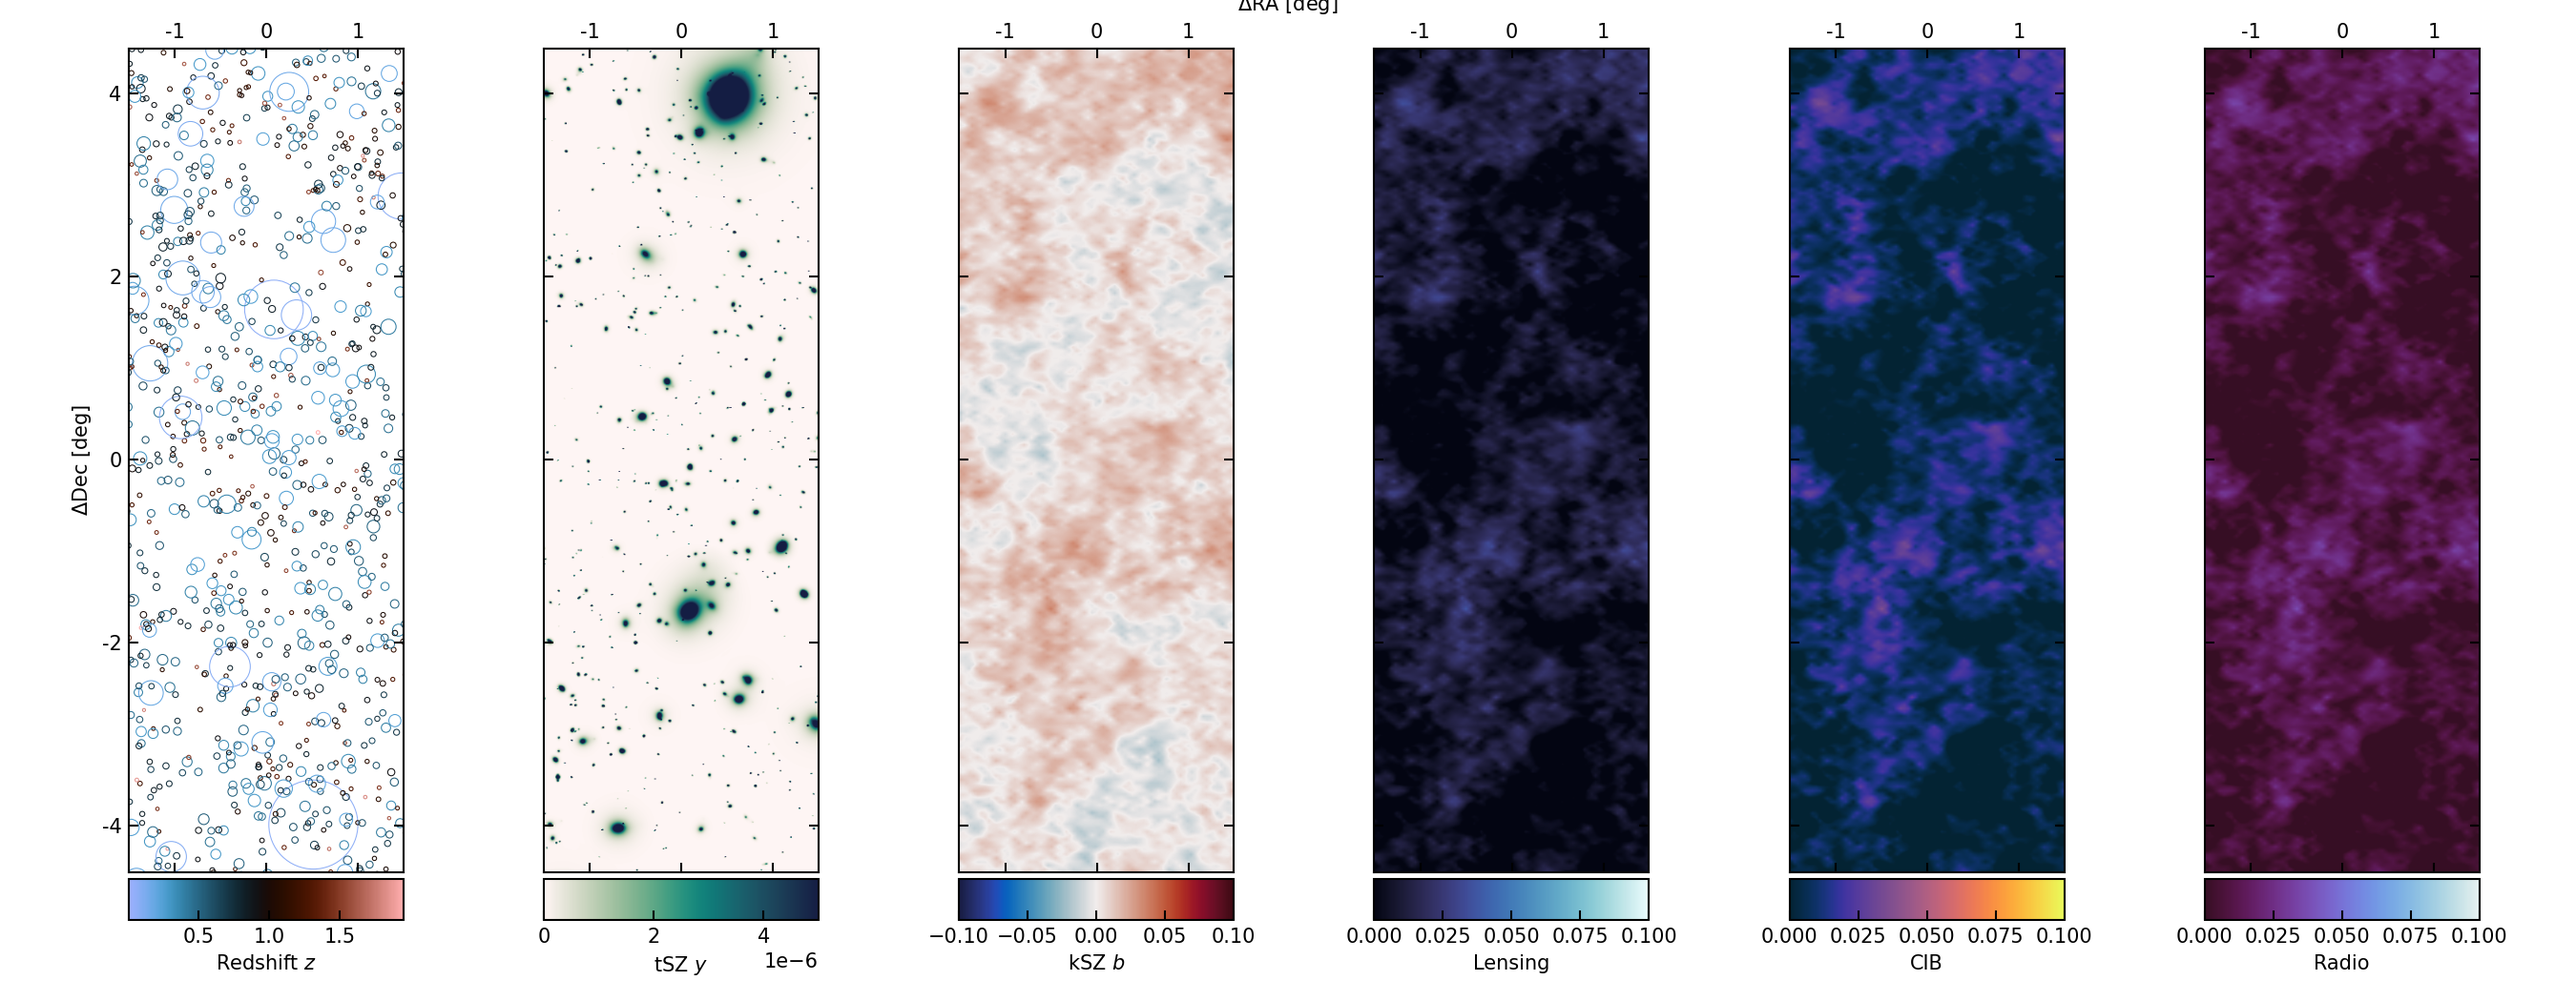
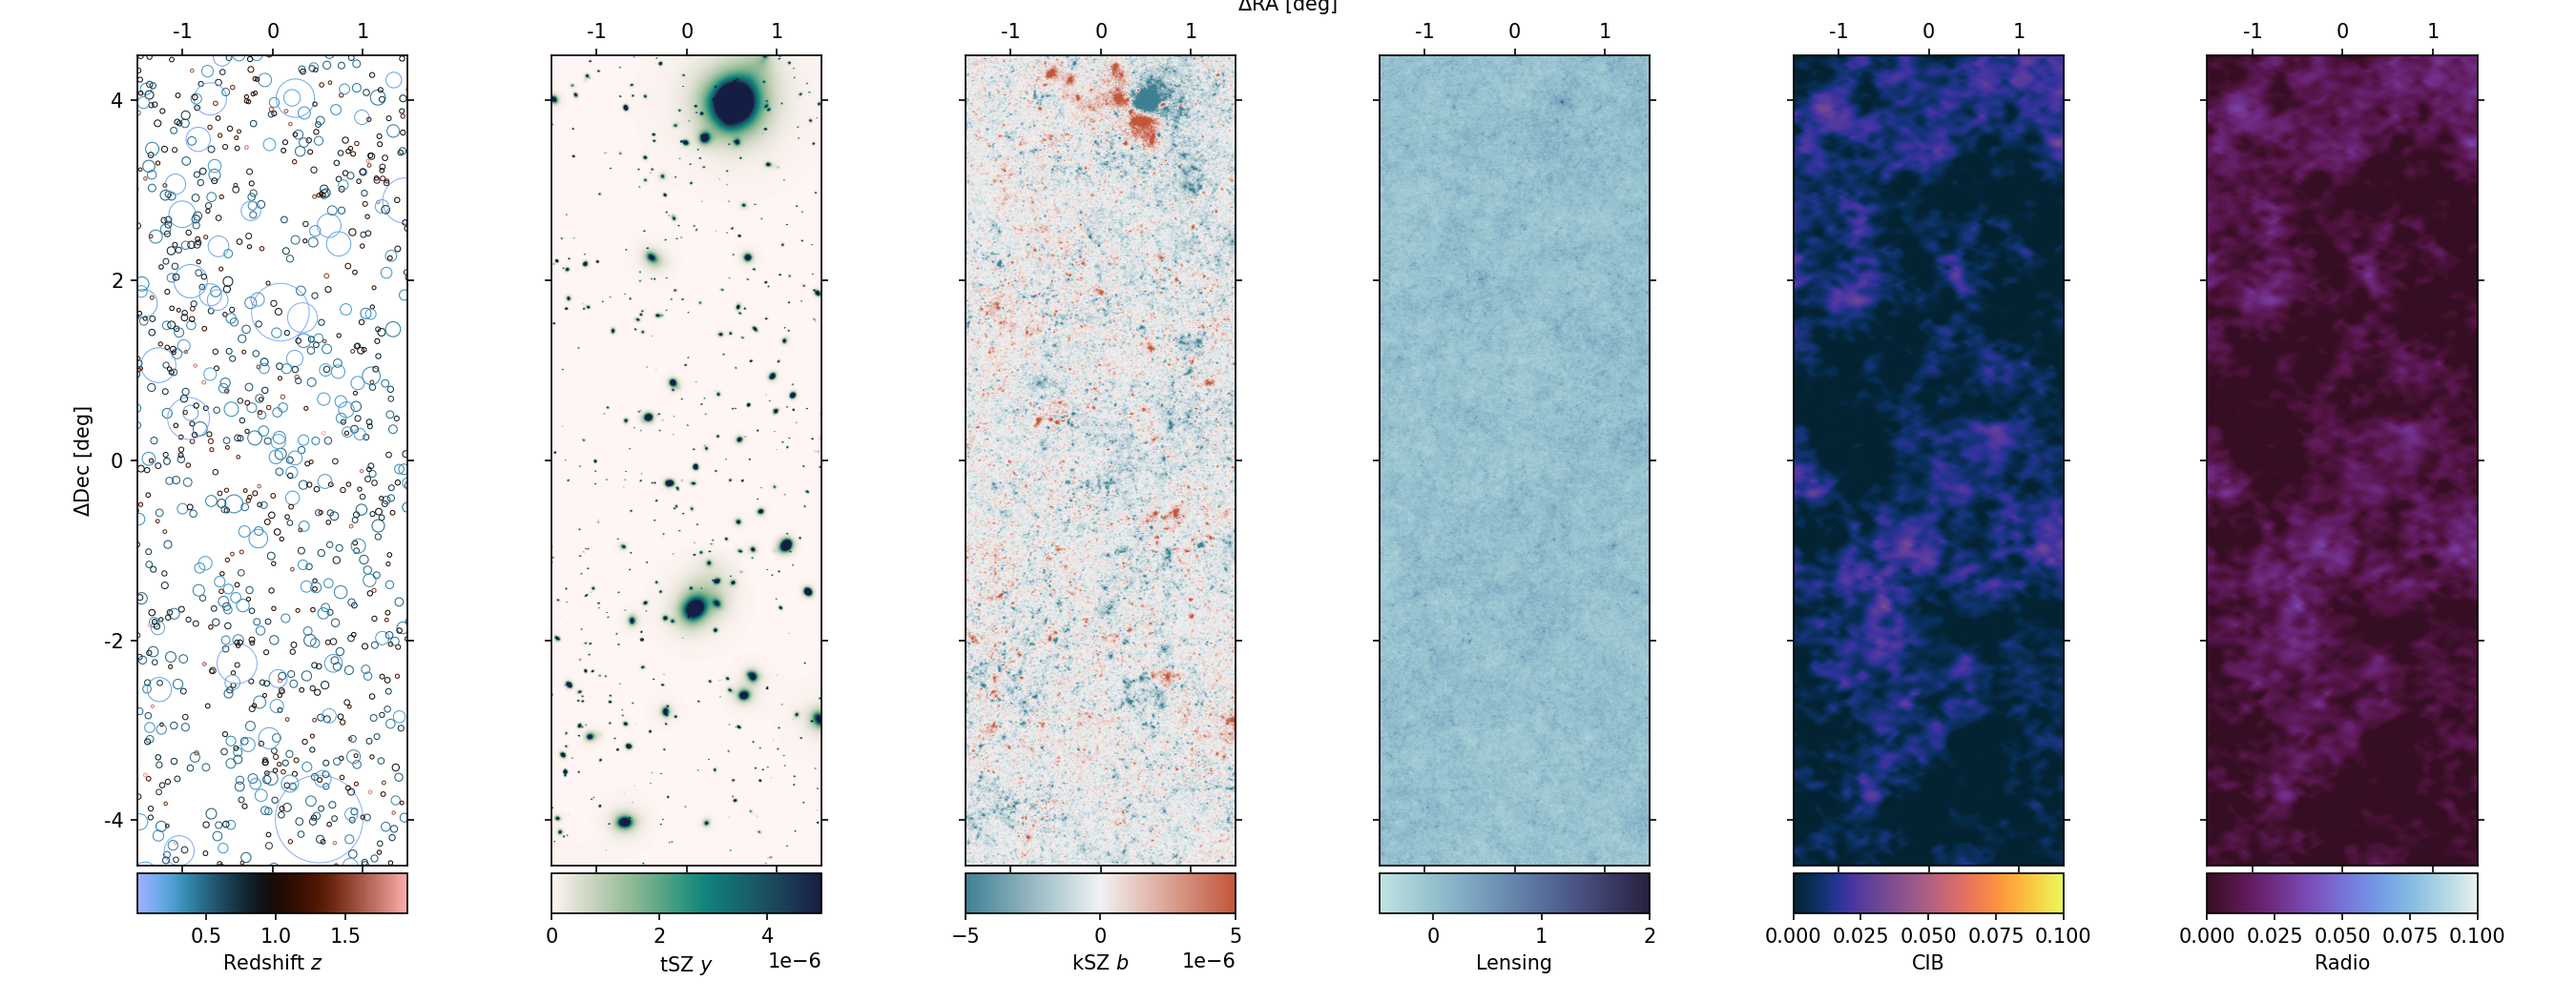
added cmb lensing and ksz

diff --git a/main.py b/main.py
@@ -8,6 +8,7 @@ from matplotlib.colors import Normalize
 from mpl_toolkits.axes_grid1 import make_axes_locatable
 from pathlib import Path
 import cmocean
+import seaborn as sns
 
 # Patch parameters
 CENTER_RA_DEG = 20.0
@@ -34,17 +35,17 @@ MAP_CONFIGS = [
         },
     ),
     (
-        "./map_ksz.fits",
+        "/data/a/cpac/prlarsen/sharing/ksz_LJ/ksz_map_paper.fits",
         {
-            "cmap": cmocean.cm.balance,
-            "vmin": -0.1,
-            "vmax": 0.1,
+            "cmap": sns.diverging_palette(220, 20, as_cmap=True),
+            "vmin": -5e-6,
+            "vmax": 5e-6,
             "label": "kSZ $b$",
         },
     ),
     (
-        "./map_lensing.fits",
-        {"cmap": cmocean.cm.ice, "vmin": 0, "vmax": 0.1, "label": "Lensing"},
+        "/data/a/cpac/prlarsen/sharing/ksz_LJ/kappa_CMB.fits",
+        {"cmap": cmocean.cm.ice, "vmin": -0.5, "vmax": 2.0, "label": "Lensing"},
     ),
     (
         "./map_cib.fits",
